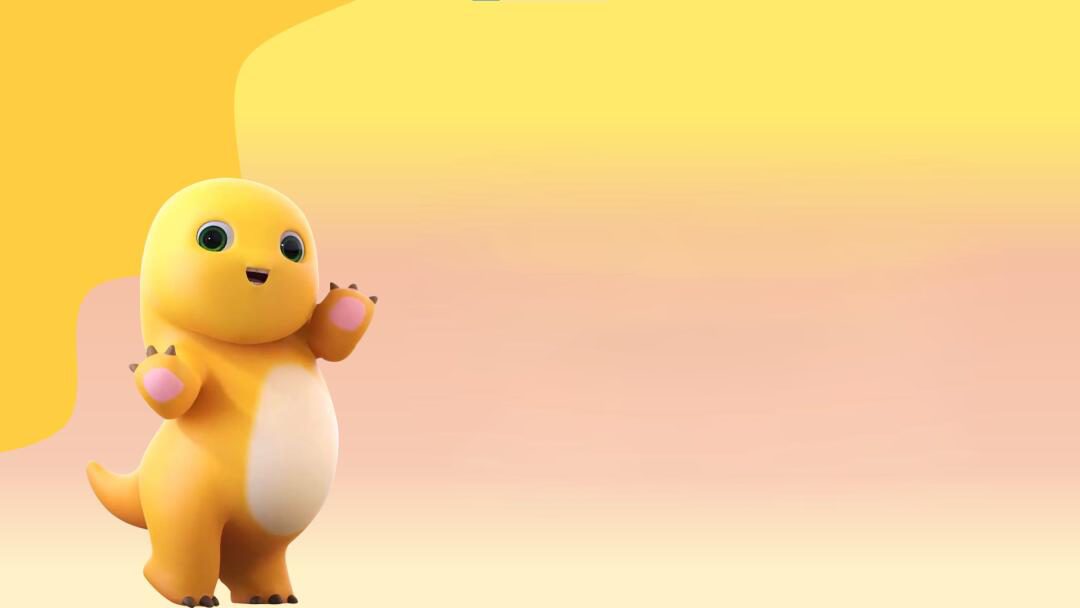
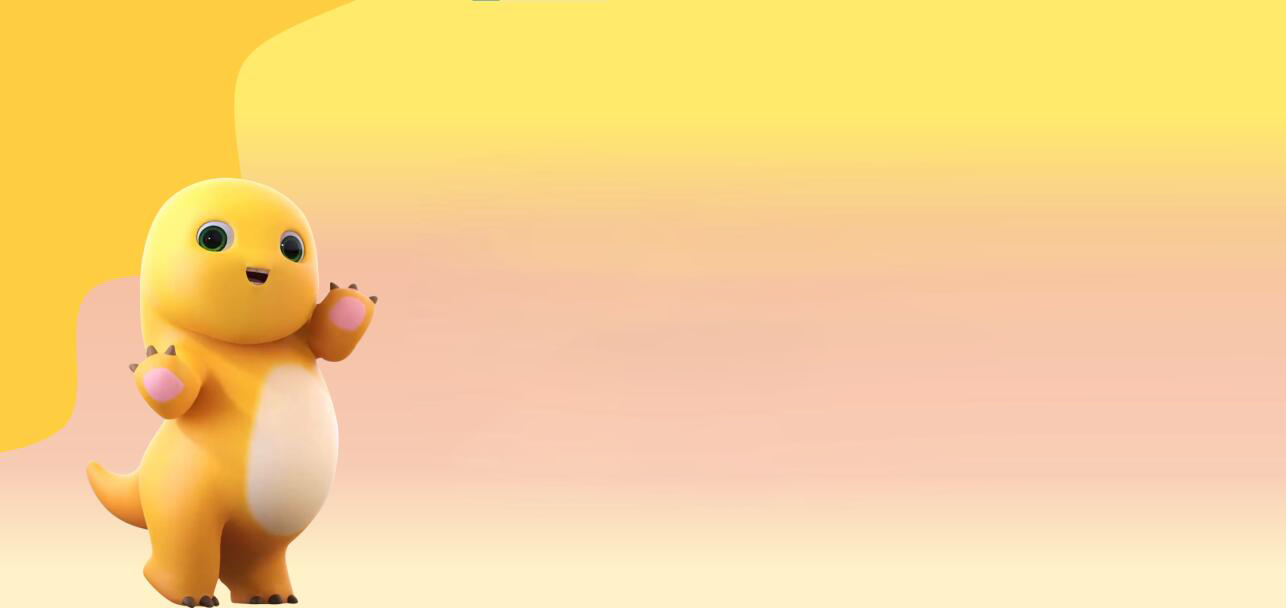
1

Changed region(s): [[0.0, 0.0, 0.3667, 1.0], [0.4889, 0.0, 0.55, 0.0312], [0.3667, 0.0, 0.4278, 0.0312]]

diff --git a/web/signin.html b/web/signin.html
@@ -10,17 +10,19 @@
     <title>登录</title>
 
   </head>
-  <body style="background:url('./img/sign.jpg') no-repeat; background-size: cover;">
+  <body style="background:url('./img/left.png') no-repeat; background-size: cover;">
       <meta name="viewport" content="width=device-width, user-scalable=no, initial-scale=1.0">
       <meta charset="utf-8">
-      <link rel="stylesheet" type="text/css" href="main.css"><link href="https://fonts.googleapis.com/css2?family=Montserrat:wght@400;700;800&amp;display=swap" rel="stylesheet">
+      <link rel="stylesheet" type="text/css" href="main.css">
+      <link href="https://fonts.googleapis.com/css2?family=Montserrat:wght@400;700;800&amp;display=swap" rel="stylesheet">
       <div class="main">
         <div class="container b-container is-txl is-z200" id="b-container">
           <form class="form" id="b-form" method="post" action="login">
             <h2 class="form_title title">登录</h2>
[3 lines of base64/hex data omitted]
+            <div class="form__icons">
[3 lines of base64/hex data omitted]
             </div>
             <span class="form__span">使用其他方式登录</span>
             <input class="form__input" type="text" id="username" name="username" placeholder="用户名" value="${username}">

diff --git a/web/bootstrap/css/mycss.css b/web/bootstrap/css/mycss.css
@@ -22,12 +22,12 @@ body {
 .main {
     position: relative;
     /*position: absolute;*/
-    left: 100px;
-    top: 50px;
-    width: 100px;
-    min-width: 900px;
+    left: 70px;
+    top: 30px;
+    width: 90px;
+    min-width: 850px;
     min-height: 600px;
-    height: 600px;
+    height: 300px;
     padding: 25px;
     background-color: rgba(0,0,0,0);
 
@@ -146,7 +146,7 @@ body {
     width: 180px;
     height: 50px;
     border-radius: 25px;
-    margin-top: 50px;
+    margin-top: 30px;
     font-weight: 700;
     font-size: 14px;
     letter-spacing: 1.15px;
@@ -280,7 +280,7 @@ body {
 .yanbox{
     position: absolute;
     right: 140px;
-    bottom: 144px;
+    bottom: 180px;
 }
 .yan{
     color: #5c636a;
@@ -292,24 +292,24 @@ body {
 .error1{
     position: absolute;
     right: 140px;
-    bottom: 338px;
+    bottom: 328px;
     color: red;
 }
 .error2{
     position: absolute;
     right: 140px;
-    bottom: 288px;
+    bottom: 280px;
     color: red;
 }
 .error3{
     position: absolute;
     right: 140px;
-    bottom: 240px;
+    bottom: 228px;
     color: red;
 }
 .error4{
     position: absolute;
     right: 140px;
-    bottom: 192px;
+    bottom: 180px;
     color: red;
 }
